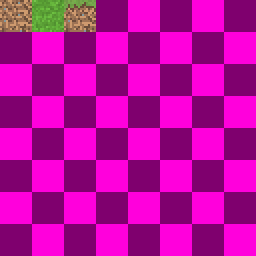
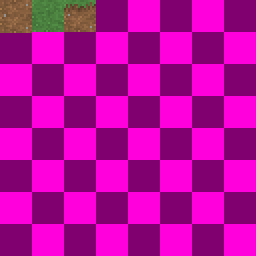
Added in new textures, done some refactoring of block types, misc changes.

Changed region(s): [[0.0, 0.0, 0.375, 0.1562]]

diff --git a/voxels-sandbox/src/q3world.cc b/voxels-sandbox/src/q3world.cc
@@ -5,14 +5,14 @@
 #include <vector>
 #include <functional>
 
-Q3BlockRendereringData Q3World::blocks[Q3_NO_BLOCKS] = {
-    Q3BlockRendereringData({1, 0}, {0,0},{2,0}, {2,0},{ 2,0 },{ 2,0 }),
-    Q3BlockRendereringData({ 0, 0 },{ 0,0 },{ 0,0 },{ 0,0 },{ 0,0 },{ 0,0 })
+Q3World::Q3BlockDescriptorMap Q3World::block_descriptors = {
+    std::make_pair(Q3BlockType::Grass, Q3BlockRendereringData({ 1, 0 }, { 0, 0 }, { 2,0 }, { 2, 0 }, { 2,0 }, { 2,0 })),
+    std::make_pair(Q3BlockType::Dirt,  Q3BlockRendereringData({ 0, 0 }, { 0, 0 }, { 0,0 }, { 0, 0 }, { 0,0 }, { 0,0 }))
 };
 
 void Q3World::generate()
 {
-    // Lets fill the world out with empty air blocks before generating any terrain.
+    // Fill the world out with empty air blocks before generating any terrain.
     for (int y = 0; y < Q3_MAPSIZE; ++y) 
     {
         for (int z = 0; z < Q3_MAPSIZE; ++z) 
@@ -43,9 +43,12 @@ void Q3World::generate()
 
             int y_index = rounded_scaled_perlin / 2;
             Q3Block *block = &(m_blocks[x][y_index][z]);
+
+            // This fills in any blocks below the newly generated one with dirt, making it look like its generated on solid land
             for (int i = 0; i < y_index; i++) {
                 (m_blocks[x][i][z]).type = Q3BlockType::Dirt;
             }
+
             block->position.y = rounded_scaled_perlin;
             block->type = Q3BlockType::Grass;
             block->position.x = std::round(+(x * 2.f));
@@ -200,7 +203,7 @@ void Q3WorldRenderer::render(Q3World * world, Q3Renderer *renderer)
                 // (despite them still existing as block data)
                 if (block->type != Q3BlockType::Air) 
                 {
-                    Q3BlockRendereringData& data = Q3World::blocks[(int)block->type];
+                    Q3BlockRendereringData& data = Q3World::block_descriptors[block->type];
                     renderer->drawCube(block_pos.x, block_pos.y, block_pos.z, 1, 1, 1, data);
                 }
             }

diff --git a/voxels-sandbox/include/qub3d/q3world.hpp b/voxels-sandbox/include/qub3d/q3world.hpp
@@ -10,6 +10,7 @@
 #include <qub3d/q3block.hpp>
 
 #include <array>
+#include <unordered_map>
 
 /*
 Represents the game world, storing block data and handling voxel manipulation.
@@ -18,9 +19,11 @@ Can be rendered via the Q3WorldRenderer class.
 class Q3World 
 {
 public:
-    static Q3BlockRendereringData blocks[Q3_NO_BLOCKS];
-
     typedef std::array<std::array<std::array<Q3Block, Q3_MAPSIZE>, Q3_MAPSIZE>, Q3_MAPSIZE> Q3BlocksArray;
+    typedef std::unordered_map<Q3BlockType, Q3BlockRendereringData> Q3BlockDescriptorMap;
+
+    /* A q3BlockDescriptorMap that describes each block type in the game, including how they shouold be scaled etc... */
+    static Q3BlockDescriptorMap block_descriptors;
 
     /* Generate the worlds terrain. This includes air. Can be called multiple times to regenerate the world. */
     void generate();

diff --git a/voxels-sandbox/src/q3camera.cc b/voxels-sandbox/src/q3camera.cc
@@ -9,7 +9,7 @@
 
 Q3Camera::Q3Camera(SDL_Window *window) : m_hAngle(0.f), m_vAngle(0.f), m_position(0.f, 0.f, -10.f), m_window(window)
 {
-    Q3SharedConstants *constants = Q3SharedConstants::Get();
+    Q3GameConfig *constants = Q3GameConfig::Get();
 
     SDL_ShowCursor(0);
     SDL_WarpMouseInWindow(window, constants->WindowWidth / 2, constants->WindowHeight / 2);
@@ -27,7 +27,7 @@ bool s_isPaused = false, s_wasPaused = false;
 
 void Q3Camera::update(float dt)
 {
-    Q3SharedConstants *constants = Q3SharedConstants::Get();
+    Q3GameConfig *constants = Q3GameConfig::Get();
 
     const Uint8 *state = SDL_GetKeyboardState(NULL);
     if (!s_isPaused)

diff --git a/voxels-sandbox/include/qub3d/q3block.hpp b/voxels-sandbox/include/qub3d/q3block.hpp
@@ -14,7 +14,7 @@ enum class Q3BlockType
 
 /*
 Stores data on how a block should be rendered,
-for example what textures it should use for front,back,top,left,right,bottom etc...
+for example the texture UVsfor front,back,top,left,right,bottom sides etc...
 */
 struct Q3BlockRendereringData {
     glm::ivec2 top_face;
@@ -26,7 +26,8 @@ struct Q3BlockRendereringData {
     glm::ivec2 forward_face;
     glm::ivec2 backward_face;
 
-
+    Q3BlockRendereringData() {}
+    
     Q3BlockRendereringData(
         const glm::ivec2& t, const glm::ivec2& bo,
         const glm::ivec2& l, const glm::ivec2& r,

diff --git a/voxels-sandbox/src/main.cc b/voxels-sandbox/src/main.cc
@@ -17,10 +17,10 @@ int main(int argc, char **argv)
     srand(static_cast<unsigned int>(time(NULL)));
     SDL_Init(SDL_INIT_EVERYTHING);
 
-    Q3SharedConstants *constants = Q3SharedConstants::Get();
+    Q3GameConfig *constants = Q3GameConfig::Get();
 
     using json = nlohmann::json;
-    std::ifstream file("assets/config.json");
+    std::ifstream file("assets/config.json"); 
     std::string str((std::istreambuf_iterator<char>(file)),
         std::istreambuf_iterator<char>());
 

diff --git a/voxels-sandbox/src/q3renderer.cc b/voxels-sandbox/src/q3renderer.cc
@@ -33,7 +33,7 @@ Q3Renderer::Q3Renderer()
 
     s_blocks = new Q3Spritesheet("assets/blocks.png");
 
-    Q3SharedConstants *constants = Q3SharedConstants::Get();
+    Q3GameConfig *constants = Q3GameConfig::Get();
     glViewport(0, 0, constants->WindowWidth, constants->WindowHeight);
 
     s_projection = glm::perspective(Q3_FOV, (float)constants->WindowWidth / constants->WindowHeight, 0.1f, 100.0f);

diff --git a/voxels-sandbox/include/qub3d/q3shared_constants.hpp b/voxels-sandbox/include/qub3d/q3shared_constants.hpp
@@ -26,12 +26,13 @@
 #define Q3_SPRITESIZE 32
 #define Q3_NO_BLOCKS 2
 
-struct Q3SharedConstants {
+struct Q3GameConfig {
     int WindowWidth = Q3_DEFAULTWINDOWWIDTH;
     int WindowHeight = Q3_DEFAULTWINDOWHEIGHT;
 
-    static Q3SharedConstants *Get() {
-        static Q3SharedConstants c;
+    static Q3GameConfig *Get() 
+    {
+        static Q3GameConfig c;
         return &c;
     }
 };
